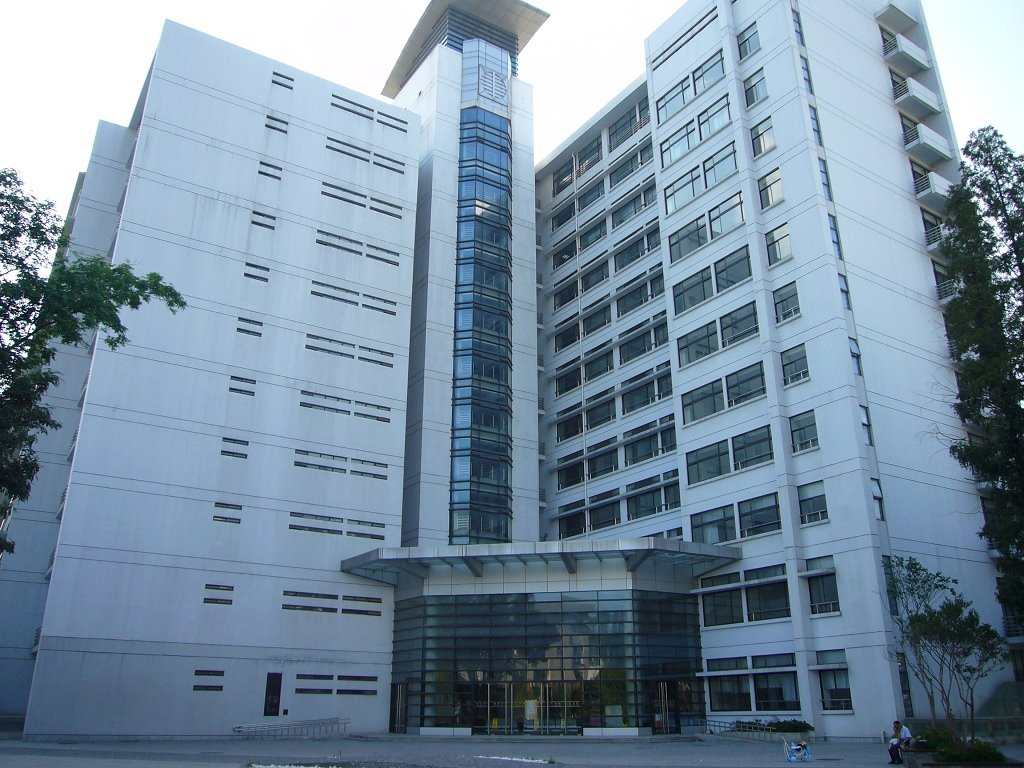
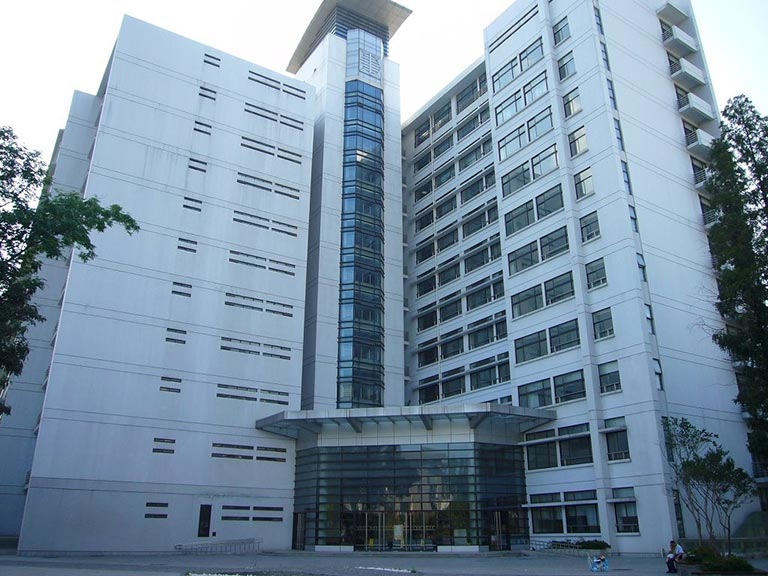
image resizing

diff --git a/www.sigmameow.com/blog/p/id.js b/www.sigmameow.com/blog/p/id.js
@@ -61,7 +61,7 @@ var jsdb = [
 "author":"浩瀚猫",
 "word":"5.4k",
 "date":"2018.05.08",
-"img":"img/page-heading/point_cloud0.png",
+"img":"img/page-heading/point_cloud0.jpg",
 "recommend":[2]
 },
 {
